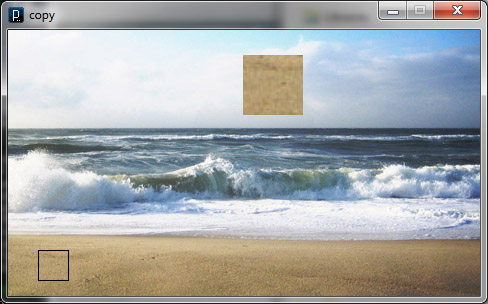
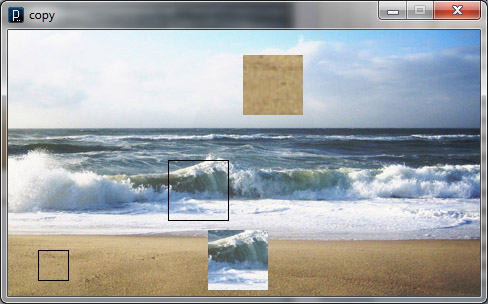
updated copy example

diff --git a/examples/seneca/pimage/copy.htm b/examples/seneca/pimage/copy.htm
@@ -9,7 +9,9 @@ size(472,266);
 PImage img = loadImage("ocean.jpg");
 image(img, 0, 0);
 copy(30, 220, 30, 30, 235, 25, 60, 60);
+copy(160, 130, 60, 60, 200, 200, 60, 60);
 noFill();
 // Rectangle shows area being copied
 rect(30, 220, 30, 30);
+rect(160, 130, 60, 60);
 </pre>
